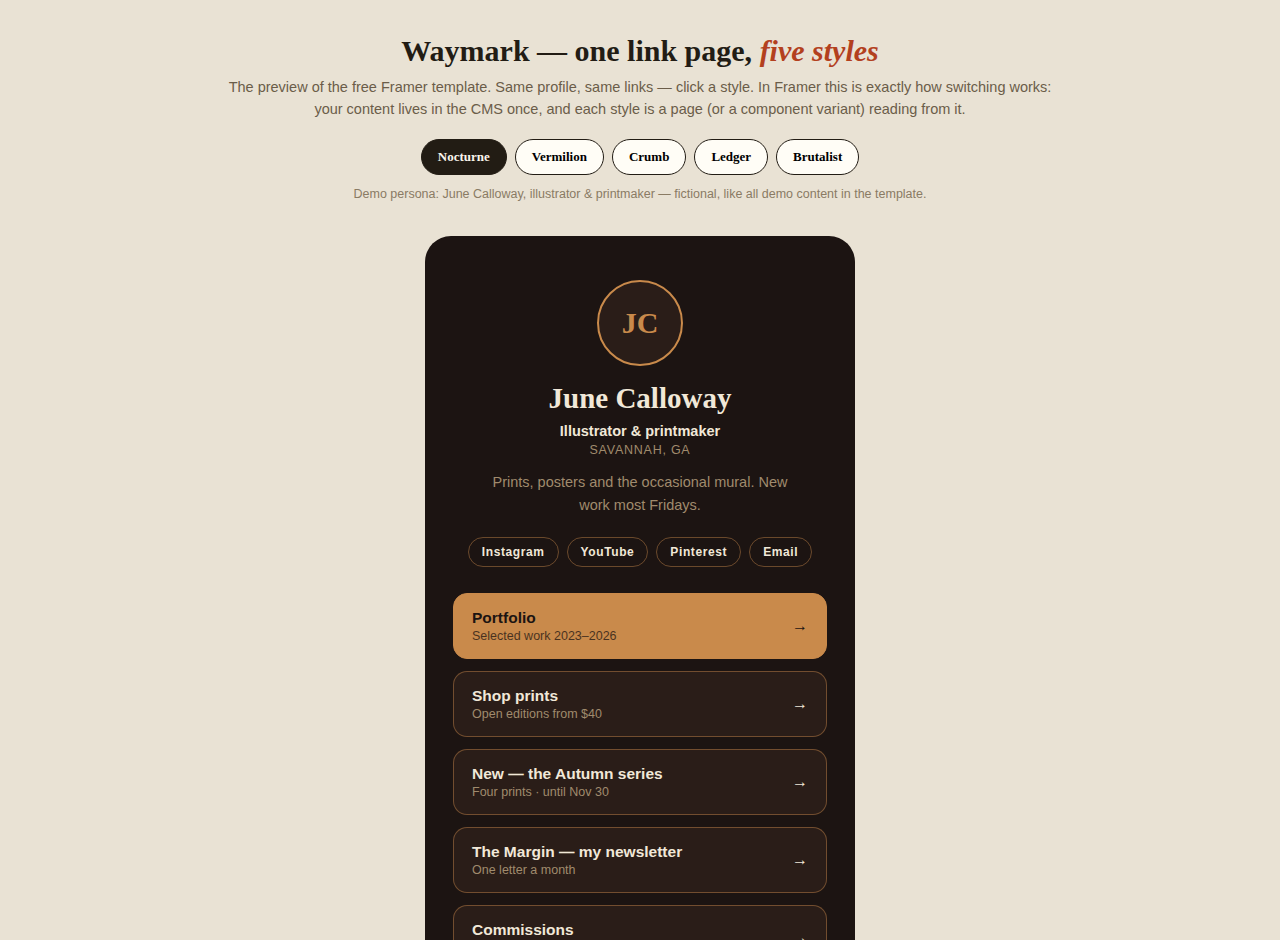
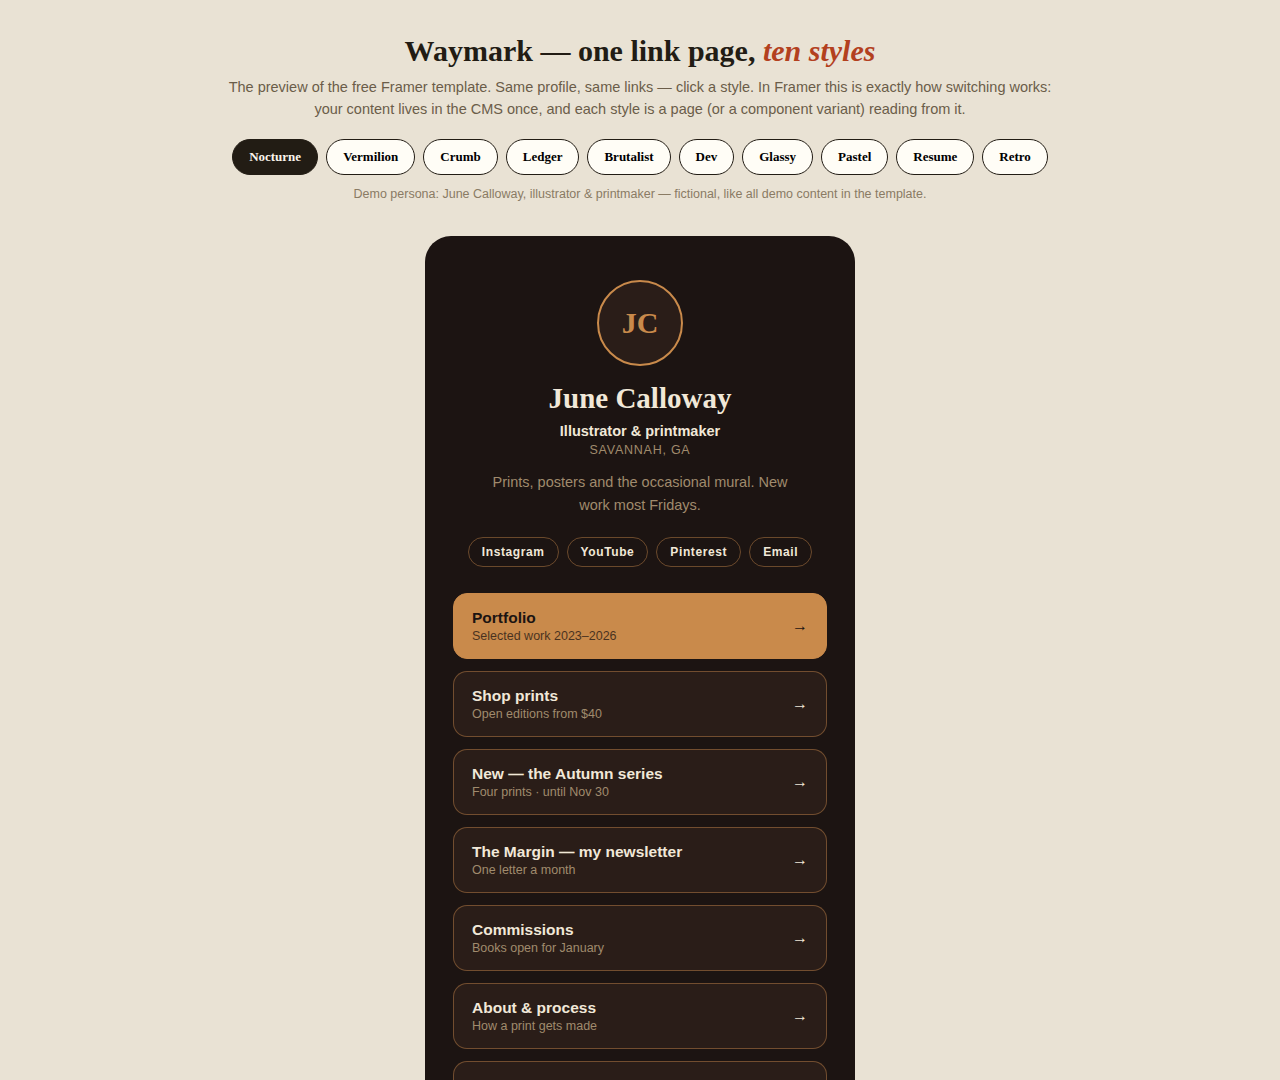
Add the five original Astro looks as riffs (10 styles total)

Changed region(s): [[0.1562, 0.0309, 0.8438, 1.0]]

diff --git a/preview/index.html b/preview/index.html
@@ -3,7 +3,7 @@
 <head>
 <meta charset="utf-8">
 <meta name="viewport" content="width=device-width, initial-scale=1">
-<title>Waymark — one link page, five styles</title>
+<title>Waymark — one link page, ten styles</title>
 <link rel="preconnect" href="https://fonts.googleapis.com">
 <link href="https://fonts.googleapis.com/css2?family=Fraunces:ital,wght@0,600;0,700;1,700&family=Manrope:wght@400;600;700;800&family=Archivo:wght@700;800&family=Space+Mono:wght@400;700&display=swap" rel="stylesheet">
 <style>
@@ -38,6 +38,23 @@
   .page[data-theme="crumb"]     { --bg:#FAF5EC; --surface:#FFFDF6; --ink:#2B1D11; --muted:#7A5F45; --accent:#9C4415; --onaccent:#FAF5EC; --border:rgba(156,68,21,.3); --radius:20px; --shadow:0 6px 18px rgba(156,68,21,.12); }
   .page[data-theme="ledger"]    { --bg:#FAF7F1; --surface:#FFFFFF; --ink:#171512; --muted:#5F6A61; --accent:#1B5E43; --onaccent:#FAF7F1; --border:rgba(27,94,67,.28); --radius:10px; }
   .page[data-theme="brutalist"] { --bg:#FFFFFF; --surface:#FFFFFF; --ink:#111111; --muted:#555555; --accent:#FFD02E; --onaccent:#111111; --border:#111111; --radius:0; --borderw:2px; --shadow:4px 4px 0 #111111; --namefont:'Archivo',sans-serif; --uifont:'Space Mono',monospace; }
+  .page[data-theme="dev"]    { --bg:#0B0E14; --surface:#131A24; --ink:#E6EDF3; --muted:#8B98A9; --accent:#4ADE80; --onaccent:#0B0E14; --border:#26303E; --radius:6px; --namefont:'Space Mono',monospace; --uifont:'Space Mono',monospace; }
+  .page[data-theme="glassy"] { --surface:rgba(255,255,255,.09); --ink:#FFFFFF; --muted:#C3CAD9; --accent:#7DD3FC; --onaccent:#0F172A; --border:rgba(255,255,255,.25); --radius:18px;
+    background:radial-gradient(600px 300px at 15% -5%, rgba(124,58,237,.55), rgba(124,58,237,0) 60%), radial-gradient(520px 280px at 95% 28%, rgba(14,165,233,.42), rgba(14,165,233,0) 60%), linear-gradient(170deg,#131E33,#0B1120); }
+  .page[data-theme="pastel"] { --surface:#FFFFFF; --ink:#473A32; --muted:#755C4C; --accent:#C2542F; --onaccent:#FFFFFF; --border:rgba(199,84,47,.25); --radius:24px; --shadow:0 8px 22px rgba(199,84,47,.10);
+    background:linear-gradient(165deg,#FDEEE3,#FBE7EE 55%,#EFE9FB); }
+  .page[data-theme="resume"] { --bg:#F1F5F9; --surface:#FFFFFF; --ink:#17222E; --muted:#5B6B7B; --accent:#1E40AF; --onaccent:#FFFFFF; --border:#D9DEE5; --radius:3px; --namefont:'Archivo',sans-serif; }
+  .page[data-theme="retro"]  { --surface:#101018; --ink:#EDEDF2; --muted:#9D9DB0; --accent:#22D3EE; --onaccent:#0A0A0F; --border:#26263A; --radius:8px; --namefont:'Archivo',sans-serif; --uifont:'Space Mono',monospace;
+    background-color:#07070D; background-image:linear-gradient(rgba(255,255,255,.05) 1px, rgba(255,255,255,0) 1px), linear-gradient(90deg, rgba(255,255,255,.05) 1px, rgba(255,255,255,0) 1px); background-size:28px 28px; }
+  .page[data-theme="dev"] .role::before { content:"// "; color:var(--accent); }
+  .page[data-theme="dev"] .avatar { border-radius:10px; }
+  .page[data-theme="glassy"] .link { backdrop-filter:blur(6px); }
+  .page[data-theme="glassy"] .avatar { background:rgba(255,255,255,.10); }
+  .page[data-theme="resume"] .role { text-transform:uppercase; letter-spacing:.14em; font-size:12px; color:var(--accent); }
+  .page[data-theme="retro"] .name { text-transform:uppercase; }
+  .page[data-theme="retro"] .avatar { border-color:#FF5DA2; color:var(--accent); }
+  .page[data-theme="retro"] .link.hl { background:#FF5DA2; border-color:#FF5DA2; color:#0A0A0F; }
+  .page[data-theme="retro"] .link.hl .note { color:#0A0A0F; }
 
   .avatar { width:86px; height:86px; border-radius:50%; margin:0 auto 16px; display:flex; align-items:center; justify-content:center;
     font-family:var(--namefont); font-weight:700; font-size:30px; background:var(--surface); color:var(--accent);
@@ -51,7 +68,7 @@
   .page[data-theme="brutalist"] .role { text-transform:uppercase; font-size:12.5px; }
   .loc { text-align:center; color:var(--muted); font-size:12.5px; margin-top:4px; letter-spacing:.06em; }
   .bio { text-align:center; color:var(--muted); font-size:14.5px; line-height:1.6; margin:14px auto 0; max-width:320px; }
-  .page[data-theme="nocturne"] .bio, .page[data-theme="vermilion"] .bio, .page[data-theme="crumb"] .bio, .page[data-theme="ledger"] .bio { color:var(--ink); opacity:.78; }
+  .page[data-theme="nocturne"] .bio, .page[data-theme="vermilion"] .bio, .page[data-theme="crumb"] .bio, .page[data-theme="ledger"] .bio, .page[data-theme="pastel"] .bio, .page[data-theme="resume"] .bio { color:var(--ink); opacity:.78; }
   .page[data-theme="nocturne"] .bio { color:var(--muted); opacity:1; }
 
   .socials { display:flex; gap:8px; justify-content:center; margin:20px 0 26px; flex-wrap:wrap; }
@@ -78,7 +95,7 @@
 </head>
 <body>
   <div class="chrome">
-    <h1>Waymark — one link page, <em>five styles</em></h1>
+    <h1>Waymark — one link page, <em>ten styles</em></h1>
     <p>The preview of the free Framer template. Same profile, same links — click a style.
        In Framer this is exactly how switching works: your content lives in the CMS once,
        and each style is a page (or a component variant) reading from it.</p>
@@ -88,6 +105,11 @@
       <button data-style="crumb">Crumb</button>
       <button data-style="ledger">Ledger</button>
       <button data-style="brutalist">Brutalist</button>
+      <button data-style="dev">Dev</button>
+      <button data-style="glassy">Glassy</button>
+      <button data-style="pastel">Pastel</button>
+      <button data-style="resume">Resume</button>
+      <button data-style="retro">Retro</button>
     </div>
     <p class="hint">Demo persona: June Calloway, illustrator &amp; printmaker — fictional, like all demo content in the template.</p>
   </div>

diff --git a/FRAMER_BUILD_SPEC.md b/FRAMER_BUILD_SPEC.md
@@ -1,11 +1,11 @@
 # Waymark — Framer Build Spec
 
 Build this in Framer exactly as specified, then work the
-SUBMISSION_CHECKLIST. Estimated build time: **45–60 minutes** (the
-components do the heavy lifting — five pages assemble from three
+SUBMISSION_CHECKLIST. Estimated build time: **60–75 minutes** (the
+components do the heavy lifting — ten pages assemble from three
 components).
 
-**The product in one line:** a free link-in-bio template with five
+**The product in one line:** a free link-in-bio template with ten
 switchable styles, where all content lives in CMS so the buyer
 previews every style with their own links before choosing.
 
@@ -24,14 +24,14 @@ previews every style with their own links before choosing.
 
 ## 2. Components (build these first)
 
-### Profile Card — 5 variants (Style: Nocturne / Vermilion / Crumb / Ledger / Brutalist)
+### Profile Card — 10 variants (Style: Nocturne / Vermilion / Crumb / Ledger / Brutalist / Dev / Glassy / Pastel / Resume / Retro)
 
 One vertical stack, centred: Avatar (CMS image, initials fallback),
 Name (H1), Role, Location (small caps), Bio, Socials Row (nested
 component). All text bound to the **Profile** collection's single
 item. Per-variant styling per the token table in §3.
 
-### Link Button — 5 variants × Highlight on/off (10 states)
+### Link Button — 10 variants × Highlight on/off (20 states)
 
 Full-width row bound to the **Links** collection (used inside a CMS
 list, sorted by Sort ascending): Label (semibold), Note (small,
@@ -39,7 +39,7 @@ muted), arrow "→" at right. Highlight ON = accent fill + on-accent
 text. Hover: translateY(-1px) + border/accent deepens (skip on
 Brutalist — hover swaps shadow from 4px to 6px offset).
 
-### Socials Row — 5 variants
+### Socials Row — 10 variants
 
 Four text-labelled pill buttons (Instagram / YouTube / Pinterest /
 Email in the demo) with editable link + label properties. Text
@@ -68,9 +68,26 @@ the guide tells buyers they may delete it.
 | UI font | Manrope | Manrope | Manrope | Manrope | Space Mono |
 | Signature | copper ring avatar, arch top on highlight button | numbered links (01–07, Space Mono… use Manrope 700) | pill buttons, soft shadow | small-caps labels, ruled top border on card | hard shadows, uppercase labels |
 
-All text/background pairs verified ≥ 4.5:1 (worst case: Vermilion
-accent on paper, 5.18:1). Do not introduce new pairs without
-checking.
+All text/background pairs verified ≥ 4.5:1 across all ten styles
+(worst case: Pastel accent on white, 4.56:1). Do not introduce
+new pairs without checking.
+
+The five originals (riffs of the Astro theme's looks, DECISION_LOG D6):
+
+| Token | Dev | Glassy | Pastel | Resume | Retro |
+|---|---|---|---|---|---|
+| Page BG | `#0B0E14` | `#0F172A` + aurora gradient (violet top-left, sky right) | watercolor wash gradient `#FDEEE3` → `#FBE7EE` → `#EFE9FB` | `#F1F5F9` | `#07070D` + 28px grid lines, white 5% |
+| Surface | `#131A24` | white 9% + blur 6px | `#FFFFFF` | `#FFFFFF` | `#101018` |
+| Text | `#E6EDF3` | `#FFFFFF` | `#473A32` | `#17222E` | `#EDEDF2` |
+| Muted | `#8B98A9` | `#C3CAD9` | `#755C4C` | `#5B6B7B` | `#9D9DB0` |
+| Accent | `#4ADE80` | `#7DD3FC` | `#C2542F` | `#1E40AF` | `#22D3EE` (highlight fill: `#FF5DA2`) |
+| On-accent | `#0B0E14` | `#0F172A` | `#FFFFFF` | `#FFFFFF` | `#0A0A0F` |
+| Border | `#26303E` | white 25% | `#C2542F` 25% | `#D9DEE5` | `#26263A` |
+| Radius | 6px | 18px | 24px | 3px | 8px |
+| Shadow | none | none | soft terracotta | none | none |
+| Name font | Space Mono 700 | Fraunces 700 | Fraunces 700 | Archivo 700 | Archivo 800 upper |
+| UI font | Space Mono | Manrope | Manrope | Manrope | Space Mono |
+| Signature | role line prefixed `//` in accent; square-ish avatar (10px radius) | frosted cards (surface blur is required, not optional) | the wash is the identity — never a flat BG | role in accent small caps; hairline rows, no shadows | avatar ring in pink `#FF5DA2`, initials in cyan; highlight button is pink, not cyan |
 
 Create matching **Color Styles** per style (`Nocturne / BG`, …) and
 apply them — Method 3 in the guide depends on styles existing, not
@@ -86,6 +103,11 @@ raw hex on frames.
 | Crumb | `/crumb` | Same, Crumb variants |
 | Ledger | `/ledger` | Same, Ledger variants |
 | Brutalist | `/brutalist` | Same, Brutalist variants |
+| Dev | `/dev` | Same, Dev variants |
+| Glassy | `/glassy` | Same, Glassy variants |
+| Pastel | `/pastel` | Same, Pastel variants |
+| Resume | `/resume` | Same, Resume variants |
+| Retro | `/retro` | Same, Retro variants |
 | 404 | custom | "This link wandered off." + button to home, Ledger styling |
 
 Set **Nocturne** as the home page (`/`) for the listing preview —
@@ -108,5 +130,6 @@ Method 1.
 
 - No CMS collection pages (single-page template).
 - No code components, no analytics embeds, no cookie anything.
-- No sixth style. The original Astro theme's Dev / Glassy / Pastel
-  / Resume / Retro looks are deliberately out (DECISION_LOG D2).
+- No eleventh style. The original Astro theme's Modern (its
+  default look) is the one variant not ported — it was the
+  generic baseline, not a look. (DECISION_LOG D2, D6.)

diff --git a/SWITCHING_GUIDE.md b/SWITCHING_GUIDE.md
@@ -10,7 +10,7 @@ written for the buyer, in plain language.*
 
 Your name, bio and links live in **one place**: the CMS collections
 called **Profile** and **Links**. Every style page reads from those
-same collections. So you edit your content **once**, and all five
+same collections. So you edit your content **once**, and all ten
 styles instantly show *your* page — you pick the look you like
 best, and you can change your mind any time without re-typing
 anything.
@@ -19,11 +19,12 @@ anything.
 
 1. Open the **CMS** (left sidebar) → **Profile** and **Links**.
    Replace the demo content with yours.
-2. Click through the five style pages — **Nocturne, Vermilion,
-   Crumb, Ledger, Brutalist** — and look at your page in each.
+2. Click through the ten style pages — **Nocturne, Vermilion,
+   Crumb, Ledger, Brutalist, Dev, Glassy, Pastel, Resume,
+   Retro** — and look at your page in each.
 3. On the page you want: open its **Page Settings** and set its
    route to `/`. Framer moves the home page to your pick.
-4. Delete the other four style pages (or keep them — unpublished
+4. Delete the other nine style pages (or keep them — unpublished
    pages cost nothing, and you can re-test a new look later).
 5. **Publish.**
 
@@ -33,7 +34,7 @@ page. Your links never move.
 ## Method 2 — Flip the Style variant
 
 Every building block (Profile Card, Link Button, Socials Row) has a
-**Style** property with the five looks as variants.
+**Style** property with the ten looks as variants.
 
 1. Select the block on any page.
 2. In the right-hand properties panel, change **Style** from, say,
@@ -55,7 +56,7 @@ and every block using it updates:
 - Swap the display font (all styles use free Google fonts:
   Fraunces, Manrope, Archivo, Space Mono).
 - Keep text readable: body text should stay at least 4.5:1
-  contrast against its background — all five stock styles pass.
+  contrast against its background — all ten stock styles pass.
 
 ## Everyday tasks
 
@@ -69,7 +70,7 @@ and every block using it updates:
 | Remove the footer badge | Select it on your home page → Delete. No hard feelings. |
 | Custom domain | Site Settings → Site Domains (a Framer plan feature) |
 
-## The five styles
+## The ten styles
 
 | Style | Background | Accent | Type | The full version |
 |---|---|---|---|---|
@@ -78,6 +79,11 @@ and every block using it updates:
 | Crumb | `#FAF5EC` cream | `#9C4415` burnt crust | Fraunces + Manrope | **Crumb Culture** — the bakery/café template |
 | Ledger | `#FAF7F1` paper | `#1B5E43` ledger green | Fraunces + Manrope | **Wagesmith** — payroll & SaaS, done warmly |
 | Brutalist | `#FFFFFF` white | `#FFD02E` signal yellow | Archivo + Space Mono | From the original Astro link-in-bio theme |
+| Dev | `#0B0E14` terminal black | `#4ADE80` terminal green | Space Mono | From the original Astro theme — the developer look |
+| Glassy | `#0F172A` deep slate + aurora gradient | `#7DD3FC` sky | Fraunces + Manrope | From the original Astro theme — glass over a night city |
+| Pastel | watercolor wash (peach → blush → lavender) | `#C2542F` terracotta | Fraunces + Manrope | From the original Astro theme — the watercolor look |
+| Resume | `#F1F5F9` slate tint | `#1E40AF` professional blue | Archivo + Manrope | From the original Astro theme — the CV look |
+| Retro | `#07070D` black + grid | `#22D3EE` cyan / `#FF5DA2` pink highlight | Archivo + Space Mono | From the original Astro theme — synthwave grid |
 
 ## Fine print
 

diff --git a/MARKETPLACE_LISTING.md b/MARKETPLACE_LISTING.md
@@ -8,7 +8,7 @@ design language, and the in-template guide names them.
 
 ---
 
-**Name:** Waymark — Link in Bio (5 switchable styles)
+**Name:** Waymark — Link in Bio (10 switchable styles)
 
 **Byline:** Cory Trimm
 
@@ -16,8 +16,8 @@ design language, and the in-template guide names them.
 
 **Tagline (short description):**
 
-> One link page, five looks. Waymark keeps your name, bio and
-> links in one place — preview them in all five styles, pick the
+> One link page, ten looks. Waymark keeps your name, bio and
+> links in one place — preview them in all ten styles, pick the
 > one that's you, and switch any time without re-typing a thing.
 
 **Description:**
@@ -25,13 +25,17 @@ design language, and the in-template guide names them.
 > Most link-in-bio templates make you choose a look before you've
 > seen your own page in it. Waymark flips that.
 >
-> Your profile and links live in the CMS — one place. Five style
+> Your profile and links live in the CMS — one place. Ten style
 > pages read from it: **Nocturne** (dark, copper, editorial),
 > **Vermilion** (paper, red, numbered), **Crumb** (warm, soft,
 > friendly), **Ledger** (clean green, all business) and
-> **Brutalist** (black, white, signal yellow, zero subtlety).
-> Fill in your links once, click through your page in all five
-> looks, set the winner as your home page, publish.
+> **Brutalist** (black, white, signal yellow, zero subtlety) —
+> plus the five looks from the original Astro theme, reimagined:
+> **Dev** (terminal dark, mono, green), **Glassy** (frosted glass
+> over a night sky), **Pastel** (watercolor wash, soft cards),
+> **Resume** (the clean CV look) and **Retro** (synthwave grid,
+> neon pink and cyan). Fill in your links once, click through
+> your page in all ten looks, set the winner as home, publish.
 >
 > Changing your mind later takes a minute, because your content
 > never moves. A built-in **Start here** page walks you through
@@ -46,7 +50,7 @@ design language, and the in-template guide names them.
 
 **What's included (bullets for the listing's feature list):**
 
-- 5 complete styles, one project
+- 10 complete styles, one project
 - CMS-driven Profile + Links — edit once, restyle freely
 - Highlight any link with one toggle
 - "Start here" page: the full switching guide, inside the template
@@ -55,12 +59,17 @@ design language, and the in-template guide names them.
 
 **Images to upload (from `marketplace/`):**
 
-1. `01-switcher.png` — the five styles side by side (hero image)
+1. `01-switcher.png` — the style switcher with Nocturne active (hero image)
 2. `02-nocturne.png`
 3. `03-vermilion.png`
 4. `04-crumb.png`
 5. `05-ledger.png`
 6. `06-brutalist.png`
+7. `07-dev.png`
+8. `08-glassy.png`
+9. `09-pastel.png`
+10. `10-resume.png`
+11. `11-retro.png`
 
 **Preview URL:** the published preview site from the build (home =
 Nocturne style).

diff --git a/README.md b/README.md
@@ -1,4 +1,4 @@
-# Waymark — a free Framer link-in-bio template with five switchable styles
+# Waymark — a free Framer link-in-bio template with ten switchable styles
 
 **Status: build package complete; the in-Framer build is the
 remaining step.** This repo is the full template package — build
@@ -29,12 +29,22 @@ reading from it):
 
 ![Brutalist style](marketplace/06-brutalist.png)
 
+![Dev style](marketplace/07-dev.png)
+
+![Glassy style](marketplace/08-glassy.png)
+
+![Pastel style](marketplace/09-pastel.png)
+
+![Resume style](marketplace/10-resume.png)
+
+![Retro style](marketplace/11-retro.png)
+
 ## The idea
 
 Most link-in-bio templates make you pick a look before you've seen
 your own page in it. Waymark keeps the profile and links in the
-CMS — one place — and ships five style pages that all read from
-it. Fill in your links once, preview your page in all five looks,
+CMS — one place — and ships ten style pages that all read from
+it. Fill in your links once, preview your page in all ten looks,
 set the winner as home, publish. Switching later takes a minute
 because the content never moves.
 
@@ -45,13 +55,18 @@ because the content never moves.
 | **Crumb** | cream + burnt crust, warm pills | Crumb Culture (bakery/café) |
 | **Ledger** | paper + ledger green, small caps | Wagesmith (payroll/SaaS, $79) |
 | **Brutalist** | black/white + signal yellow, hard shadows | the original Astro theme's signature look |
+| **Dev** | terminal black + green, all mono | the original Astro theme, riffed |
+| **Glassy** | frosted glass over a night-sky gradient | the original Astro theme, riffed |
+| **Pastel** | watercolor wash, soft white cards | the original Astro theme, riffed |
+| **Resume** | slate + professional blue, hairline rows | the original Astro theme, riffed |
+| **Retro** | black grid, neon cyan + pink | the original Astro theme, riffed |
 
 ## Switching, three ways (the guide in one paragraph)
 
-1. **Pick a page** — preview all five with your content, set one
+1. **Pick a page** — preview all ten with your content, set one
    as home. Zero skill required.
 2. **Flip a variant** — Profile Card, Link Button and Socials Row
-   each carry all five styles as a variant property; re-skin a
+   each carry all ten styles as a variant property; re-skin a
    page in place.
 3. **Edit the styles** — every token exists as a named Color/Text
    Style per look; change the style, change the look.

diff --git a/SUBMISSION_CHECKLIST.md b/SUBMISSION_CHECKLIST.md
@@ -10,9 +10,9 @@ why the remix flow must be frictionless.
 ## Build (from FRAMER_BUILD_SPEC.md)
 
 - [ ] CMS collections created; CSVs imported (Profile 1 item, Links 7)
-- [ ] Profile Card / Link Button / Socials Row components, all 5 Style variants
+- [ ] Profile Card / Link Button / Socials Row components, all 10 Style variants
 - [ ] Color Styles created per style and applied (no raw hex on frames)
-- [ ] 5 style pages + Start here page + custom 404
+- [ ] 10 style pages + Start here page + custom 404
 - [ ] Nocturne set as home page for the listing preview
 - [ ] All links are real (example.com demo targets, real mailto:)
 - [ ] Footer Badge present on all style pages, linked to the listing
@@ -21,7 +21,7 @@ why the remix flow must be frictionless.
 ## Quality pass
 
 - [ ] Preview each style page at phone width — column centred, no overflow
-- [ ] Switch test: edit one link label in CMS → confirm it changes on all 5 pages
+- [ ] Switch test: edit one link label in CMS → confirm it changes on all 10 pages
 - [ ] Variant test: flip one Link Button's Style → renders correctly
 - [ ] Method 1 test: re-set home to another style page → publishes correctly
 - [ ] Start here page reads cleanly and its internal links work
@@ -34,7 +34,7 @@ why the remix flow must be frictionless.
 - [ ] Creator → New Template: name, byline, description (from MARKETPLACE_LISTING.md)
 - [ ] Categories: Link in Bio / Personal / Portfolio
 - [ ] Price: **Free** (no Stripe step for this one)
-- [ ] Upload the 6 marketplace images from `marketplace/`
+- [ ] Upload the 11 marketplace images from `marketplace/`
 - [ ] Submit → template is live immediately
 - [ ] After it's live: add the listing URL to the Footer Badge link in the project and republish the preview
 - [ ] Live check: open the Marketplace page, remix it as a stranger would, confirm the Start here page is intact

diff --git a/DECISION_LOG.md b/DECISION_LOG.md
@@ -55,6 +55,23 @@ Framer referral share (50% of a referred subscription's first
 year) + paid-catalog discovery. Listing states "as-is, no
 support" — at free, support time would eat the sprint.
 
+## D6 — The five originals restored as riffs (2026-11-17, Cory's call)
+
+Cory directed adding the Astro original's remaining looks back —
+D2's drop is superseded. Dev, Glassy, Pastel, Resume and Retro
+join as **riffs**, not ports: each is grounded in its original
+config (Glassy's dark slate + backdrop image, Pastel's watercolor
+wash, Retro's black + retro-grid + neon palette, Resume's slate
+professionalism, Dev's code-first identity) and rebuilt to the
+Waymark token standard — every text pair re-verified ≥ 4.5:1
+(Pastel's muted needed darkening to `#755C4C`, 5.46:1, to pass).
+Ten styles total. The original's eighth variant, Modern, stays
+out: it was the default baseline look, not a style. Cost of the
+change: component variant count doubles (20 Link Button states)
+and the in-Framer build estimate rises to 60–75 minutes — worth
+it, per Cory: more options is the point of a link-in-bio template,
+and the originals are what the Astro theme's 19★ audience knows.
+
 ## D5 — Sequencing note (2026-11-17)
 
 Built before the paid listings are live in Framer (Cory's call,
